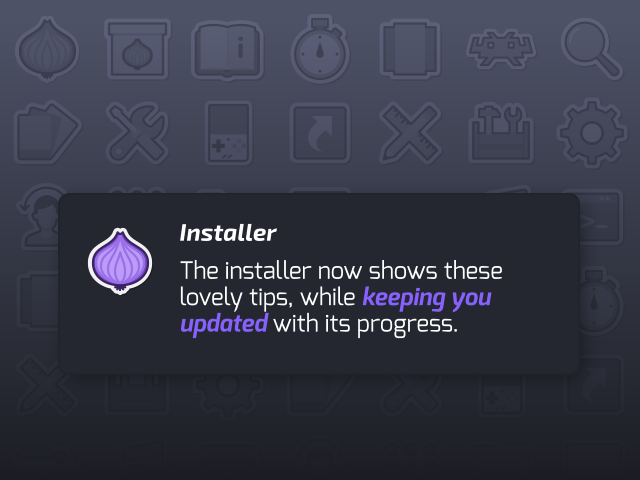
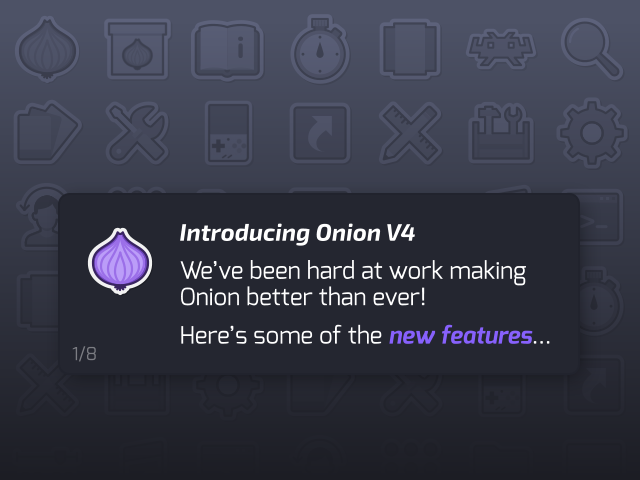
Simplified wording on install slides, upped the timeout to 10s + changed the install complete to be installUI    (the user can then watch the rest of the slides)

Changed region(s): [[0.2812, 0.4688, 0.8438, 0.7188], [0.125, 0.7188, 0.1562, 0.75]]

diff --git a/src/installUI/installUI.c b/src/installUI/installUI.c
@@ -13,10 +13,12 @@
 #include "utils/msleep.h"
 #include "utils/log.h"
 #include "utils/imageCache.h"
+#include "utils/config.h"
+#include "system/keymap_sw.h"
 
 #define TIMEOUT_M 10
 #define CHECK_TIMEOUT 300
-#define SLIDE_TIMEOUT 6000
+#define SLIDE_TIMEOUT 10000
 
 SDL_Surface* _loadSlide(int index)
 {
@@ -74,6 +76,7 @@ int main(int argc, char *argv[])
 
     int current_slide = -1;
     int num_slides = 8;
+    config_get("currentSlide", "%d", &current_slide);
     imageCache_load(&current_slide, _loadSlide, num_slides);
 
     bool quit = false;
@@ -97,7 +100,7 @@ int main(int argc, char *argv[])
         last_ticks = ticks;
 
         while (SDL_PollEvent(&event)) {
-            if (event.type == SDL_QUIT || (exists(".waitConfirm") && event.type == SDL_KEYUP)) {
+            if (event.type == SDL_QUIT || (event.type == SDL_KEYUP && exists(".waitConfirm"))) {
                 quit = true;
                 break;
             }
@@ -115,7 +118,7 @@ int main(int argc, char *argv[])
             slide_timer = ticks;
         }
         
-        if (exists(".installed")) {
+        if (exists(".installed") || exists(".waitConfirm")) {
             progress = 100;
             if (!exists(".waitConfirm"))
                 quit = true;
@@ -189,6 +192,8 @@ int main(int argc, char *argv[])
         SDL_FillRect(video, NULL, 0);
         SDL_Flip(video);
     }
+
+    config_setNumber("currentSlide", current_slide);
     
     imageCache_freeAll();
     SDL_FreeSurface(waiting_bg);
